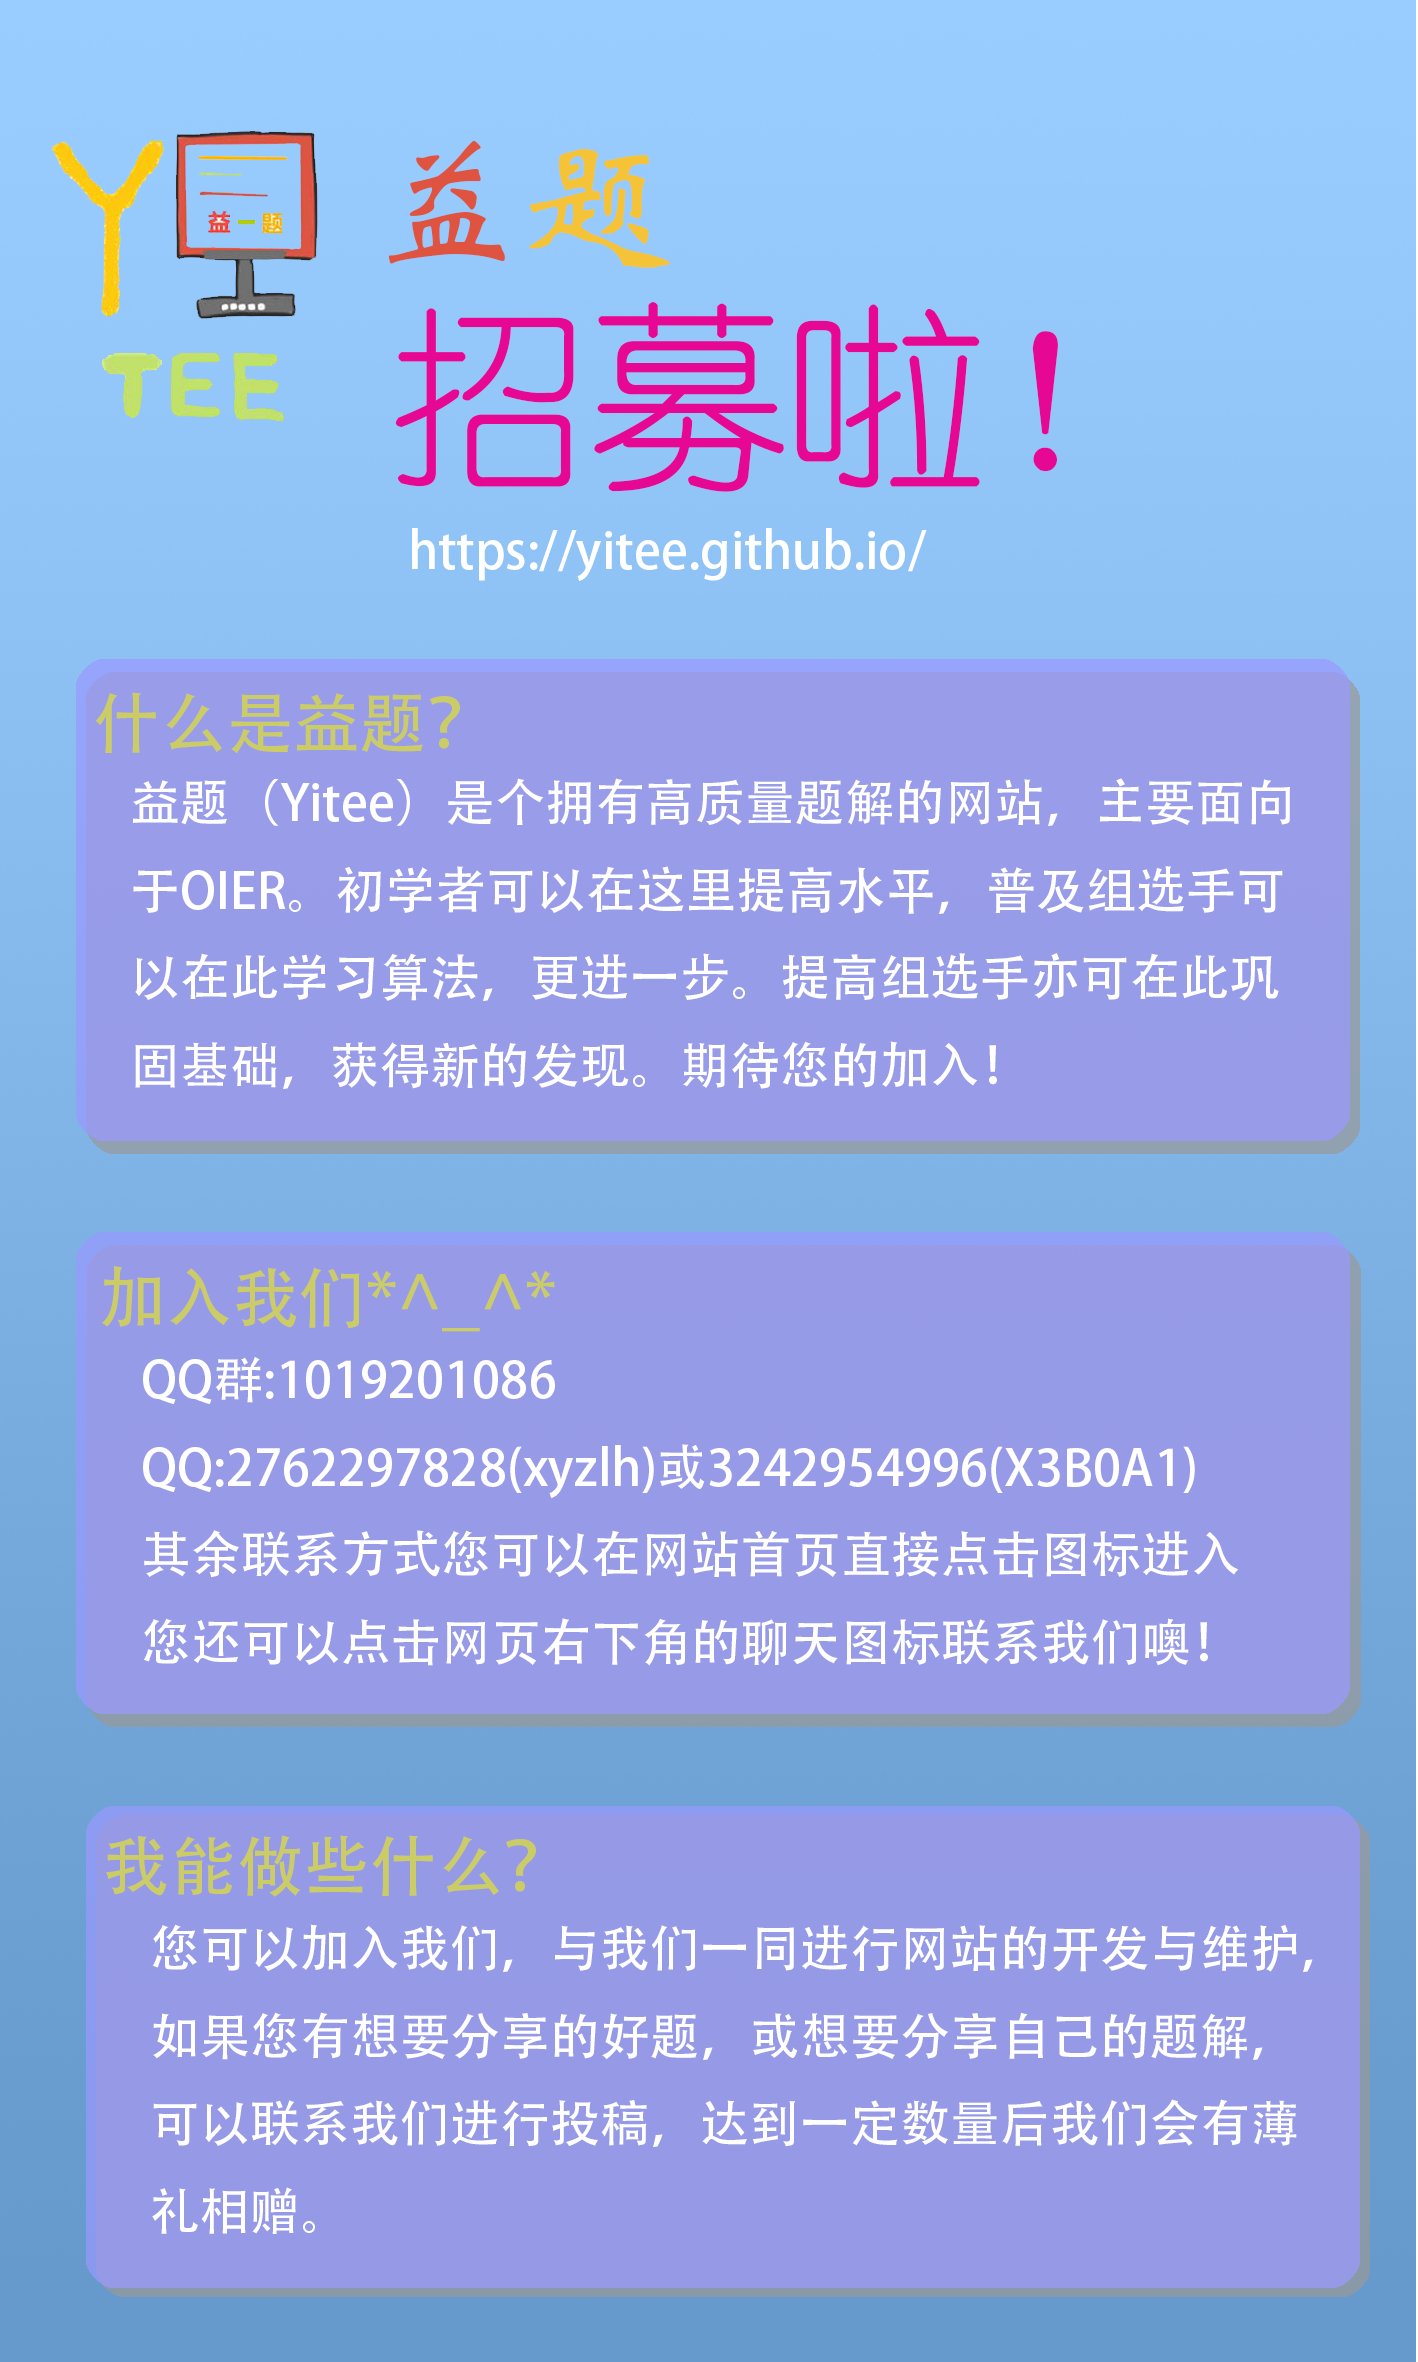
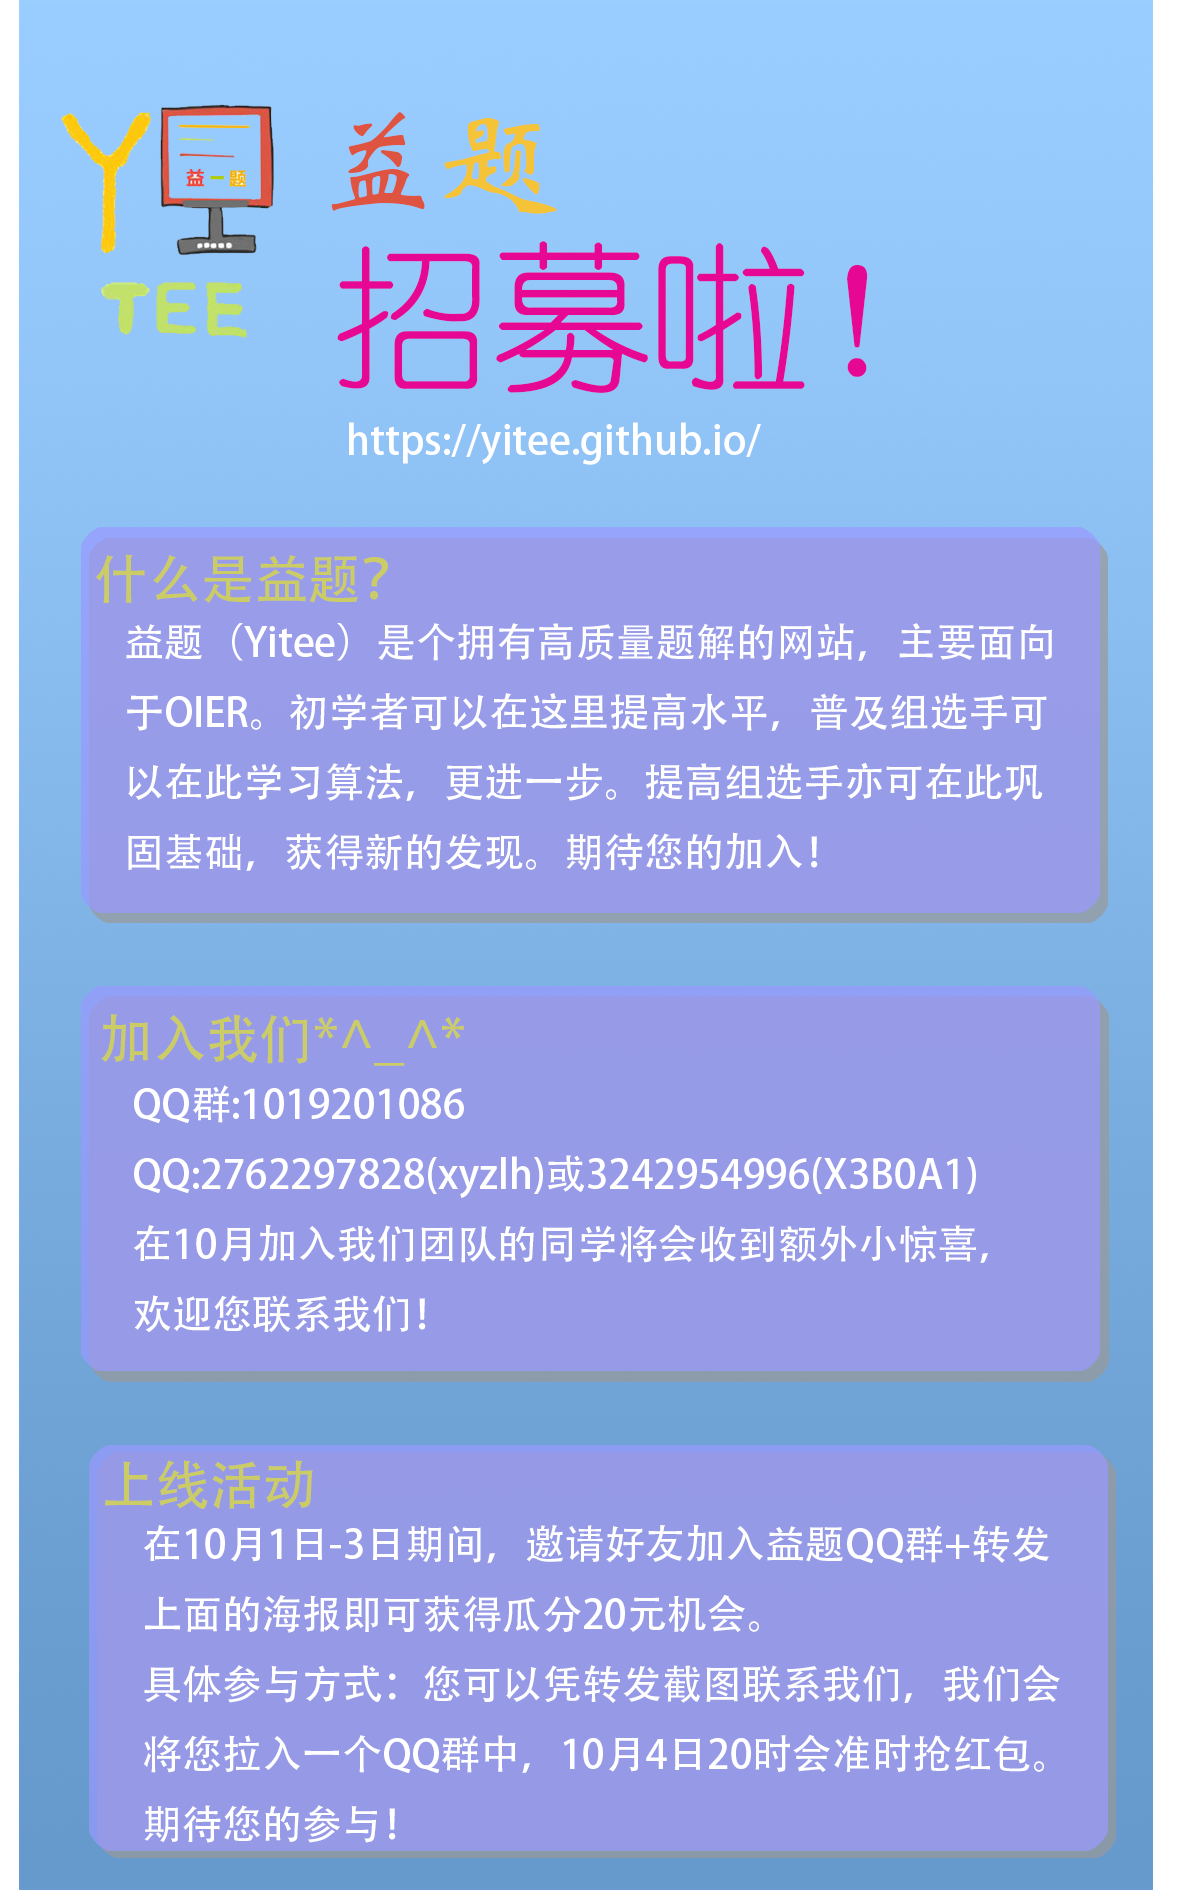
Site updated: 2020-10-01 16:17:00

Changed region(s): [[0.0, 0.0, 1.0, 1.0], [0.2743, 0.0624, 0.7621, 0.2497]]

diff --git a/about/index.html b/about/index.html
@@ -8,19 +8,19 @@
   <link rel="dns-prefetch" href="https://yitee.github.io">
   <title>关于 | 益题 Yitee</title>
   <meta name="viewport" content="width=device-width, initial-scale=1, maximum-scale=1">
-  <meta name="description" content="网站简介益题（Yitee）是个拥有高质量题解的网站，主要面向于OIER。初学者可以在这里提高水平，普及组选手可以在此学习算法，更进一步。提高组选手亦可在此巩固基础，获得新的发现。期待您的加入！ 网站成员xyzlh，X3B0A1如果您对建设网站有兴趣，可以联系我们。我们将非常欢迎您的加入😊 联系方式QQ群:1019201086QQ:2762297828或3242954996微信：helloworl">
+  <meta name="description" content="网站简介益题（Yitee）是个拥有高质量题解的网站，主要面向于OIER。初学者可以在这里提高水平，普及组选手可以在此学习算法，更进一步。提高组选手亦可在此巩固基础，获得新的发现。期待您的加入！ 网站成员xyzlh，X3B0A1如果您对建设网站有兴趣，可以联系我们。我们将非常欢迎您的加入😊 联系方式QQ群:1019201086QQ:2762297828  3242954996 3342880042">
 <meta property="og:type" content="website">
 <meta property="og:title" content="关于">
 <meta property="og:url" content="https://yitee.github.io/about/index.html">
 <meta property="og:site_name" content="益题 Yitee">
-<meta property="og:description" content="网站简介益题（Yitee）是个拥有高质量题解的网站，主要面向于OIER。初学者可以在这里提高水平，普及组选手可以在此学习算法，更进一步。提高组选手亦可在此巩固基础，获得新的发现。期待您的加入！ 网站成员xyzlh，X3B0A1如果您对建设网站有兴趣，可以联系我们。我们将非常欢迎您的加入😊 联系方式QQ群:1019201086QQ:2762297828或3242954996微信：helloworl">
+<meta property="og:description" content="网站简介益题（Yitee）是个拥有高质量题解的网站，主要面向于OIER。初学者可以在这里提高水平，普及组选手可以在此学习算法，更进一步。提高组选手亦可在此巩固基础，获得新的发现。期待您的加入！ 网站成员xyzlh，X3B0A1如果您对建设网站有兴趣，可以联系我们。我们将非常欢迎您的加入😊 联系方式QQ群:1019201086QQ:2762297828  3242954996 3342880042">
 <meta property="og:locale" content="zh_CN">
 <meta property="og:image" content="https://yitee.github.io/about/index/thank.jpg">
 <meta property="og:image" content="https://yitee.github.io/about/index/step1.png">
 <meta property="og:image" content="https://yitee.github.io/about/index/step2.png">
 <meta property="og:image" content="https://yitee.github.io/about/index/step3.png">
 <meta property="article:published_time" content="2020-08-12T13:41:25.000Z">
-<meta property="article:modified_time" content="2020-09-07T13:52:47.052Z">
+<meta property="article:modified_time" content="2020-10-01T07:54:08.436Z">
 <meta property="article:author" content="益题 Yitee">
 <meta name="twitter:card" content="summary">
 <meta name="twitter:image" content="https://yitee.github.io/about/index/thank.jpg">
@@ -205,7 +205,7 @@ daovoice('update');
         
 
         <div align="center" class="post-count">
-    字数：634字 | 预计阅读时长：2分钟
+    字数：635字 | 预计阅读时长：2分钟
 </div>        
 
         <!-- 需要添加的位置 -->
@@ -226,7 +226,7 @@ daovoice('update');
       
         <h2 id="网站简介"><a href="#网站简介" class="headerlink" title="网站简介"></a>网站简介</h2><p>益题（Yitee）是个拥有高质量题解的网站，主要面向于OIER。<br>初学者可以在这里提高水平，普及组选手可以在此学习算法，<br>更进一步。提高组选手亦可在此巩固基础，获得新的发现。期待您的加入！</p>
 <h2 id="网站成员"><a href="#网站成员" class="headerlink" title="网站成员"></a>网站成员</h2><p>xyzlh，X3B0A1<br>如果您对建设网站有兴趣，可以联系我们。我们将非常欢迎您的加入😊</p>
-<h2 id="联系方式"><a href="#联系方式" class="headerlink" title="联系方式"></a>联系方式</h2><p>QQ群:1019201086<br>QQ:2762297828或3242954996<br>微信：helloworld-dlx<br>邮箱：<a href="mailto:2762297828@qq.com">2762297828@qq.com</a>或X3B0A1@gmail.com<br>其余联系方式您可以在首页直接点击图标进入<br>您还可以点击网页右下角的聊天图标联系我们噢😜</p>
+<h2 id="联系方式"><a href="#联系方式" class="headerlink" title="联系方式"></a>联系方式</h2><p>QQ群:1019201086<br>QQ:2762297828  3242954996 3342880042<br>微信：helloworld-dlx<br>邮箱：<a href="mailto:2762297828@qq.com">2762297828@qq.com</a>或X3B0A1@gmail.com<br>其余联系方式您可以在首页直接点击图标进入<br>您还可以点击网页右下角的聊天图标联系我们噢😜</p>
 <h2 id="网站守则"><a href="#网站守则" class="headerlink" title="网站守则"></a>网站守则</h2><p><strong>益题是一个供大家学习，获取知识的社区，为了维护社区风气，净化社区环境，我们制定了以下守则：</strong></p>
 <ul>
 <li>禁止在评论区、反馈区发送无意义内容</li>
@@ -260,7 +260,7 @@ daovoice('update');
     2020-08-12
     <br>
     <strong class="update-time">最后更新：</strong>
-    2020-09-07
+    2020-10-01
     <br>
     <strong class="article-titles">本文标题：</strong>
     <a href="https://yitee.github.io/about/index.html" title="关于" target="_blank">关于</a>

diff --git a/2020/10/01/益题正式上线啦！/index.html b/2020/10/01/益题正式上线啦！/index.html
@@ -16,11 +16,10 @@
 <meta property="og:description" content="前言首先祝大家国庆节和中秋节快乐！">
 <meta property="og:locale" content="zh_CN">
 <meta property="og:image" content="https://yitee.github.io/2020/10/01/%E7%9B%8A%E9%A2%98%E6%AD%A3%E5%BC%8F%E4%B8%8A%E7%BA%BF%E5%95%A6%EF%BC%81/%E4%B8%AD%E7%A7%8B%E5%BF%AB%E4%B9%90.jpg">
-<meta property="og:image" content="https://yitee.github.io/2020/10/01/%E7%9B%8A%E9%A2%98%E6%AD%A3%E5%BC%8F%E4%B8%8A%E7%BA%BF%E5%95%A6%EF%BC%81/%E4%B8%AD%E7%A7%8B%E5%BF%AB%E4%B9%90.jpg">
 <meta property="og:image" content="https://yitee.github.io/2020/10/01/%E7%9B%8A%E9%A2%98%E6%AD%A3%E5%BC%8F%E4%B8%8A%E7%BA%BF%E5%95%A6%EF%BC%81/%E4%B8%8A%E7%BA%BF.png">
 <meta property="og:image" content="https://yitee.github.io/2020/10/01/%E7%9B%8A%E9%A2%98%E6%AD%A3%E5%BC%8F%E4%B8%8A%E7%BA%BF%E5%95%A6%EF%BC%81/1.gif">
 <meta property="article:published_time" content="2020-09-30T16:00:00.000Z">
-<meta property="article:modified_time" content="2020-10-01T07:39:09.499Z">
+<meta property="article:modified_time" content="2020-10-01T08:04:09.762Z">
 <meta property="article:author" content="益题 Yitee">
 <meta property="article:tag" content="公告">
 <meta name="twitter:card" content="summary">
@@ -227,10 +226,10 @@ daovoice('update');
       
         <h2 id="前言"><a href="#前言" class="headerlink" title="前言"></a>前言</h2><p>首先祝大家国庆节和中秋节快乐！ </p>
 <a id="more"></a> 
-<p><img src="/2020/10/01/%E7%9B%8A%E9%A2%98%E6%AD%A3%E5%BC%8F%E4%B8%8A%E7%BA%BF%E5%95%A6%EF%BC%81/%E4%B8%AD%E7%A7%8B%E5%BF%AB%E4%B9%90.jpg" alt><br><img src="/2020/10/01/%E7%9B%8A%E9%A2%98%E6%AD%A3%E5%BC%8F%E4%B8%8A%E7%BA%BF%E5%95%A6%EF%BC%81/中秋快乐.jpg" width="1000" height="200"></p>
+<p><img src="/2020/10/01/%E7%9B%8A%E9%A2%98%E6%AD%A3%E5%BC%8F%E4%B8%8A%E7%BA%BF%E5%95%A6%EF%BC%81/中秋快乐.jpg" width="auto" height="250"></p>
 <hr>
 <p>作者：益题团队</p>
-<h2 id="1-上线通知"><a href="#1-上线通知" class="headerlink" title="1.上线通知"></a>1.上线通知</h2><p>益题于10月1日正式开放<br>热烈欢迎👏<br><img src="/2020/10/01/%E7%9B%8A%E9%A2%98%E6%AD%A3%E5%BC%8F%E4%B8%8A%E7%BA%BF%E5%95%A6%EF%BC%81/%E4%B8%8A%E7%BA%BF.png" alt></p>
+<h2 id="1-上线通知"><a href="#1-上线通知" class="headerlink" title="1.上线通知"></a>1.上线通知</h2><p>益题于10月1日正式开放<br>热烈欢迎👏<br><img src="/2020/10/01/%E7%9B%8A%E9%A2%98%E6%AD%A3%E5%BC%8F%E4%B8%8A%E7%BA%BF%E5%95%A6%EF%BC%81/上线.png" width="350" height="550"></p>
 <h2 id="2-上线活动"><a href="#2-上线活动" class="headerlink" title="2.上线活动"></a>2.上线活动</h2><p>在10月1日-3日期间，邀请好友加入益题QQ群+转发上面的海报即可获得瓜分20元机会。<br>具体参与方式：您可以凭转发截图联系我们，我们会将您拉入一个QQ群中，<br>10月4日20时会准时抢红包。期待您的参与！</p>
 <h2 id="3-关于益题"><a href="#3-关于益题" class="headerlink" title="3.关于益题"></a>3.关于益题</h2><p>益题（Yitee）是个拥有高质量题解的网站，主要面向于OIER。<br>初学者可以在这里提高水平，普及组选手可以在此学习算法，<br>更进一步。提高组选手亦可在此巩固基础，获得新的发现。期待您的加入！</p>
 <p>更多信息请查看<a href="https://yitee.github.io/about/">关于</a>页</p>
